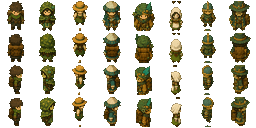
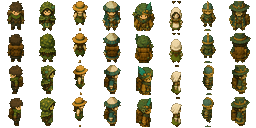
Fix west-facing character sprites

diff --git a/src/game/art.test.ts b/src/game/art.test.ts
@@ -9,6 +9,7 @@ import {
   spriteIndex,
   type ArtTheme,
 } from './art'
+import directionalManifest from '../../art/generated/directional/manifest.json'
 
 describe('pixel art contract', () => {
   it('keeps every sprite in a unique atlas cell', () => {
@@ -37,5 +38,9 @@ describe('pixel art contract', () => {
     expect(directionalCharactersUrl()).toMatch(/verdant-directional-characters\.png$/)
     expect(directionalMonstersUrl()).toMatch(/verdant-directional-monsters\.png$/)
     expect(directionalRow).toEqual({ down: 0, up: 1, left: 2, right: 3 })
+    expect(directionalManifest.postprocess.horizontal_flip).toEqual({
+      characters: ['west'],
+      monsters: [],
+    })
   })
 })

diff --git a/scripts/ingest_directional_assets.py b/scripts/ingest_directional_assets.py
@@ -26,6 +26,10 @@ REPORTS = BASE / "reports"
 PUBLIC = ROOT / "public/assets/art"
 
 DIRECTIONS = ["south", "north", "west", "east"]
+# GPT Image produced the character "west" column facing screen-right. Keep the
+# immutable source crop, then normalize only that derived output by mirroring it.
+# Monster west/east columns are already correct and must not be flipped.
+HORIZONTAL_FLIP_OUTPUTS = {("characters", "west")}
 SHEETS = [
     {
         "group": "characters",
@@ -102,6 +106,16 @@ def main() -> None:
                     contrast=1.06,
                     despill=True,
                 )
+                if (spec["group"], direction) in HORIZONTAL_FLIP_OUTPUTS:
+                    for output_path in (logical, preview):
+                        image = Image.open(output_path).convert("RGBA")
+                        image.transpose(Image.Transpose.FLIP_LEFT_RIGHT).save(output_path, optimize=True)
+                    report_data = json.loads(report.read_text(encoding="utf-8"))
+                    report_data["postprocess"] = {"horizontal_flip": True}
+                    report.write_text(
+                        json.dumps(report_data, ensure_ascii=False, indent=2) + "\n",
+                        encoding="utf-8",
+                    )
                 processed[(spec["group"], name, direction)] = logical
 
     runtime: dict[str, str] = {}
@@ -129,6 +143,12 @@ def main() -> None:
             "rows": DIRECTIONS,
         },
         "runtime_outputs": runtime,
+        "postprocess": {
+            "horizontal_flip": {
+                "characters": ["west"],
+                "monsters": [],
+            },
+        },
         "policy": {
             "raw_sources_are_immutable": True,
             "white_background_is_removed": True,

diff --git a/docs/art-direction.md b/docs/art-direction.md
@@ -30,6 +30,9 @@ references to a specific commercial game.
   **256×128 px**; generated character atlas: **256×32 px**.
 - Four-direction character and monster atlases: **256×128 px**, eight
   identities across columns and south/north/west/east across rows.
+- Character `west` source poses are normalized with a horizontal flip after
+  extraction because the generated source faces screen-right. Raw cells remain
+  immutable, and monster directions are not flipped.
 - Palette caps: **64 colors** per generated terrain tile and **24–32 colors**
   per generated sprite.
 - No runtime smoothing, sub-pixel placement, blur, or CSS filtering.
